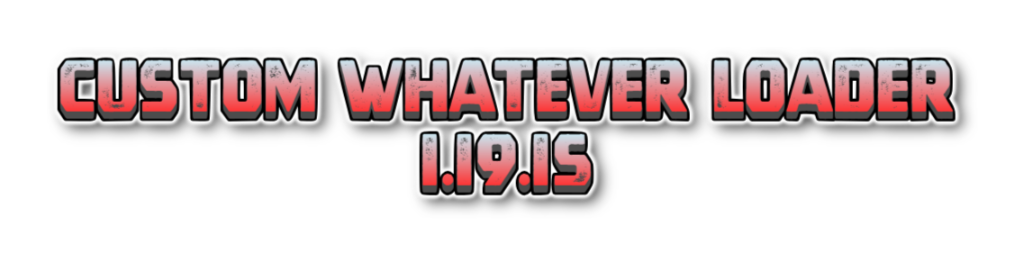
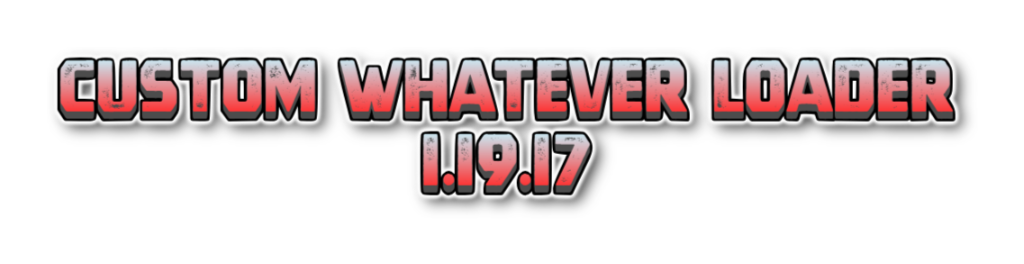
feat(CWL): support new `fixedElement` `randomElement` tags for element source value

Changed region(s): [[0.4062, 0.4848, 0.5938, 0.7879]]

diff --git a/CustomWhateverLoader/Patches/Elements/FixedSourceValuePatch.cs b/CustomWhateverLoader/Patches/Elements/FixedSourceValuePatch.cs
@@ -1,0 +1,18 @@
+using HarmonyLib;
+
+namespace Cwl.Patches.Elements;
+
+[HarmonyPatch]
+internal class FixedSourceValuePatch
+{
+    [HarmonyPrefix]
+    [HarmonyPatch(typeof(ElementContainer), nameof(ElementContainer.ApplyElementMap))]
+    internal static void OnSetFixedSourceValue(ElementContainerCard __instance, ref SourceValueType type)
+    {
+        if (__instance.owner.sourceCard.tag.Contains("fixedElement")) {
+            type = SourceValueType.Fixed;
+        } else if (__instance.owner.sourceCard.tag.Contains("randomElement")) {
+            type = SourceValueType.EquipmentRandom;
+        }
+    }
+}

diff --git a/CustomWhateverLoader/Loader/CustomWhateverLoader.cs b/CustomWhateverLoader/Loader/CustomWhateverLoader.cs
@@ -10,7 +10,7 @@ public static class ModInfo
     // for legacy reason
     public const string Guid = "dk.elinplugins.customdialogloader";
     public const string Name = "Custom Whatever Loader";
-    public const string Version = "1.19.16";
+    public const string Version = "1.19.17";
 }
 
 [BepInPlugin(ModInfo.Guid, ModInfo.Name, ModInfo.Version)]
